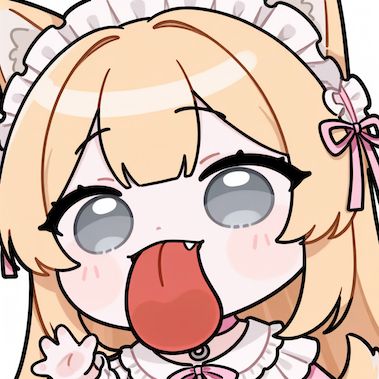
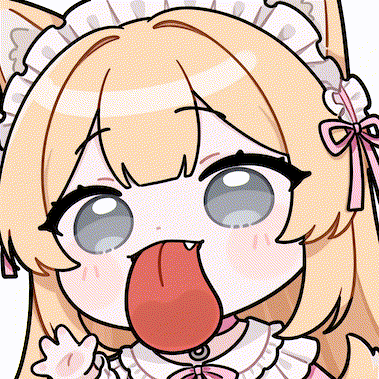
ci: automate dual-store LazyCat publishing

diff --git a/README.md b/README.md
@@ -1,1 +1,5 @@
 # clewdr-lzcapp
+
+## 自动发布
+
+每天 23:00 UTC 检查 `ghcr.io/xerxes-2/clewdr` 稳定版本，将镜像复制到 LazyCat Registry，构建版本化 GitHub Release Asset，并发布到懒猫官方商店和喵喵私有商店。推送 `v*` tag 可触发完整发布。